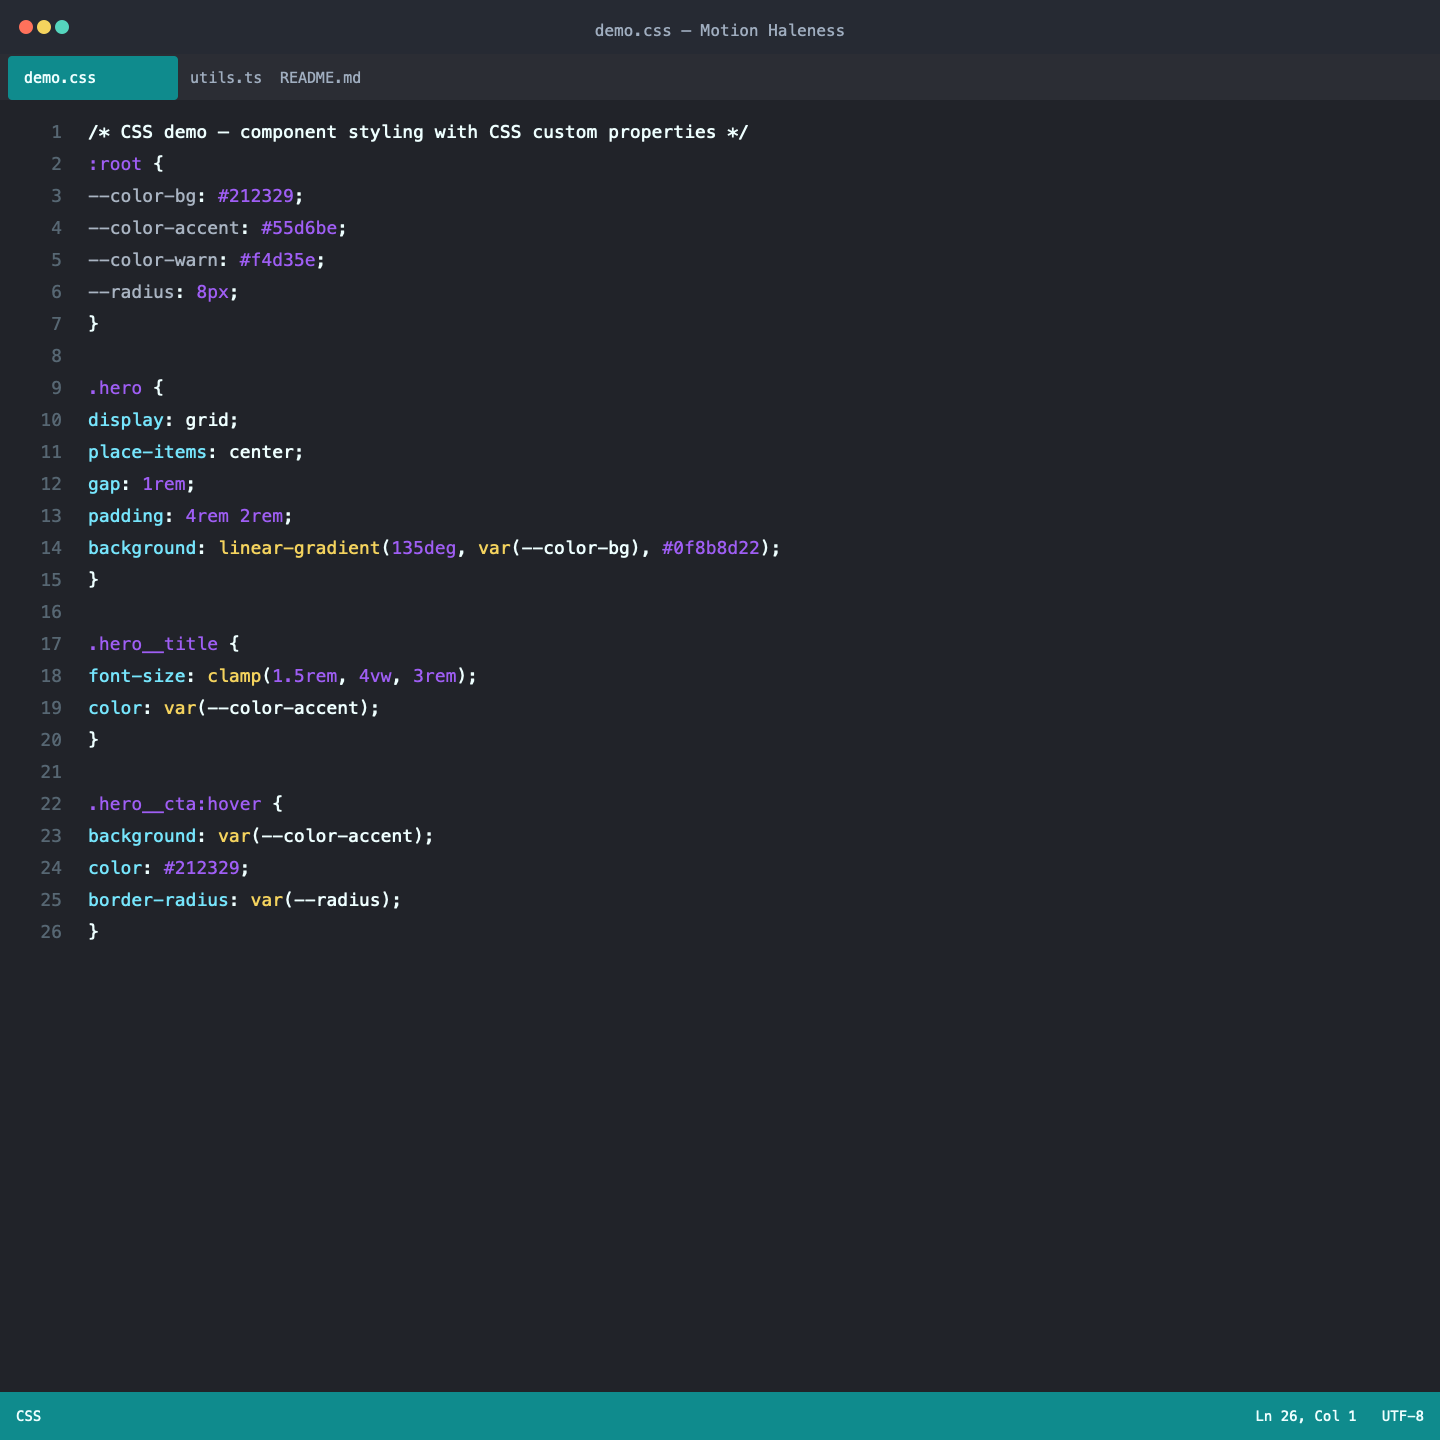
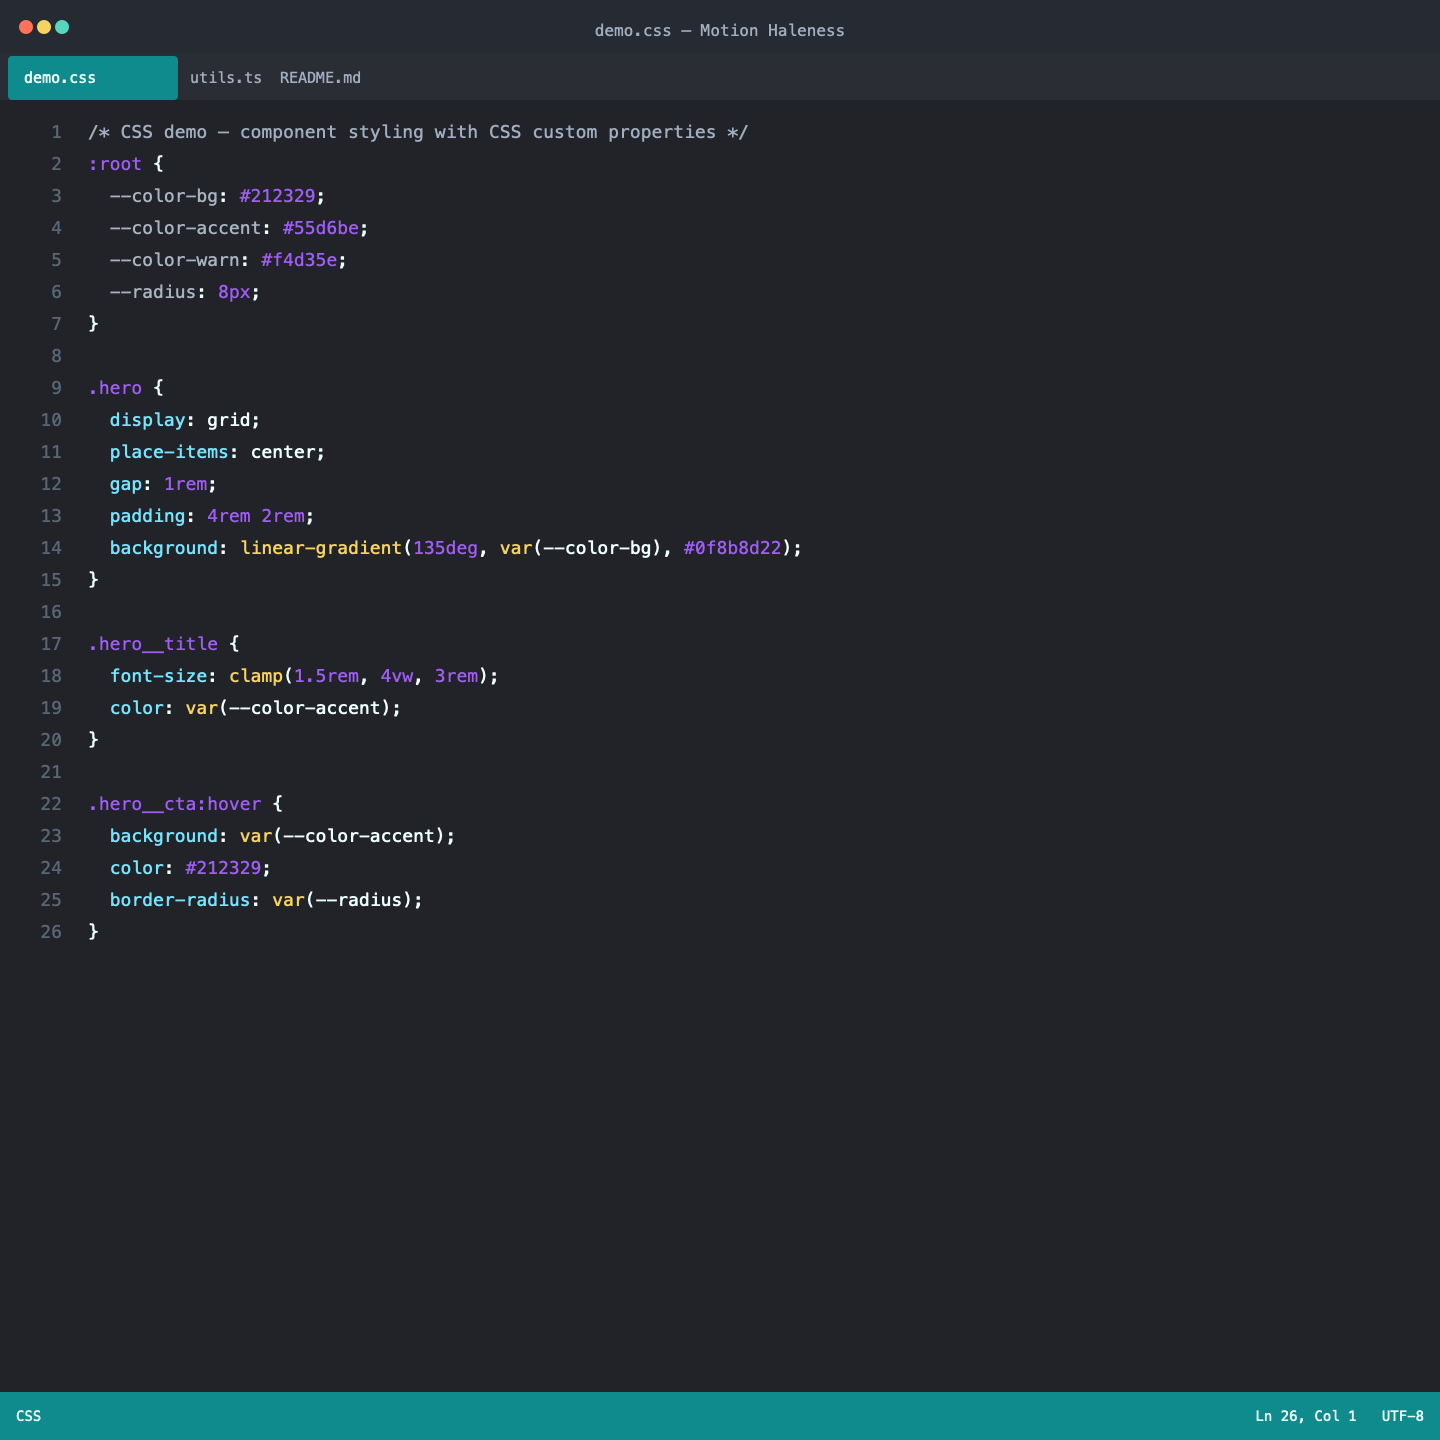
fix screenshot comment colors and preserve indentation

diff --git a/scripts/generate-screenshots.js b/scripts/generate-screenshots.js
@@ -53,9 +53,9 @@ const COLORS = {
 };
 
 function colorFor(classes) {
-  if (classes.includes("class_")) return "#F4D35E";
-  if (classes.includes("function_")) return "#76E5FC";
-  if (classes.includes("comment") || classes.includes("quote")) return "#a0aec0";
+  if (classes.some((c) => c.includes("class_"))) return "#F4D35E";
+  if (classes.some((c) => c.includes("function_"))) return "#76E5FC";
+  if (classes.some((c) => c.includes("comment") || c.includes("quote"))) return "#a0aec0";
   for (const c of classes) {
     if (COLORS[c]) return COLORS[c];
   }
@@ -161,7 +161,7 @@ function buildSvg(langLabel, fileName, code) {
       `<text x="${gutterX}" y="${y}" fill="#576773" font-family="${FONT}" font-size="${fontSize}" text-anchor="end">${i + 1}</text>`
     );
     const tspans = runs
-      .map((r) => `<tspan fill="${colorFor(r.classes)}">${escapeXml(r.text)}</tspan>`)
+      .map((r) => `<tspan fill="${colorFor(r.classes)}">${escapeXml(r.text).replace(/ /g, "&#160;")}</tspan>`)
       .join("");
     parts.push(`<text x="${codeX}" y="${y}" fill="#EEFFFF" font-family="${FONT}" font-size="${fontSize}">${tspans}</text>`);
   });
